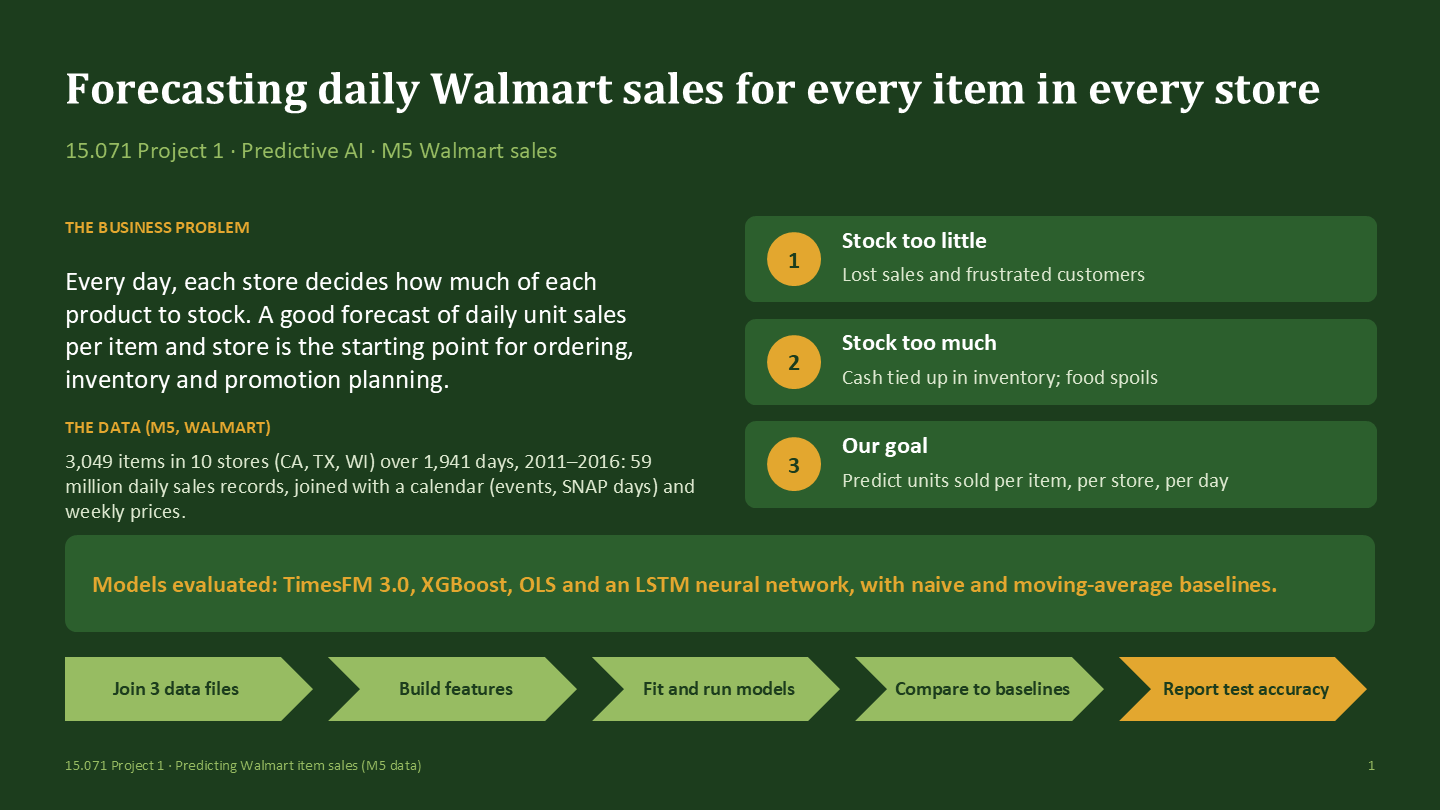
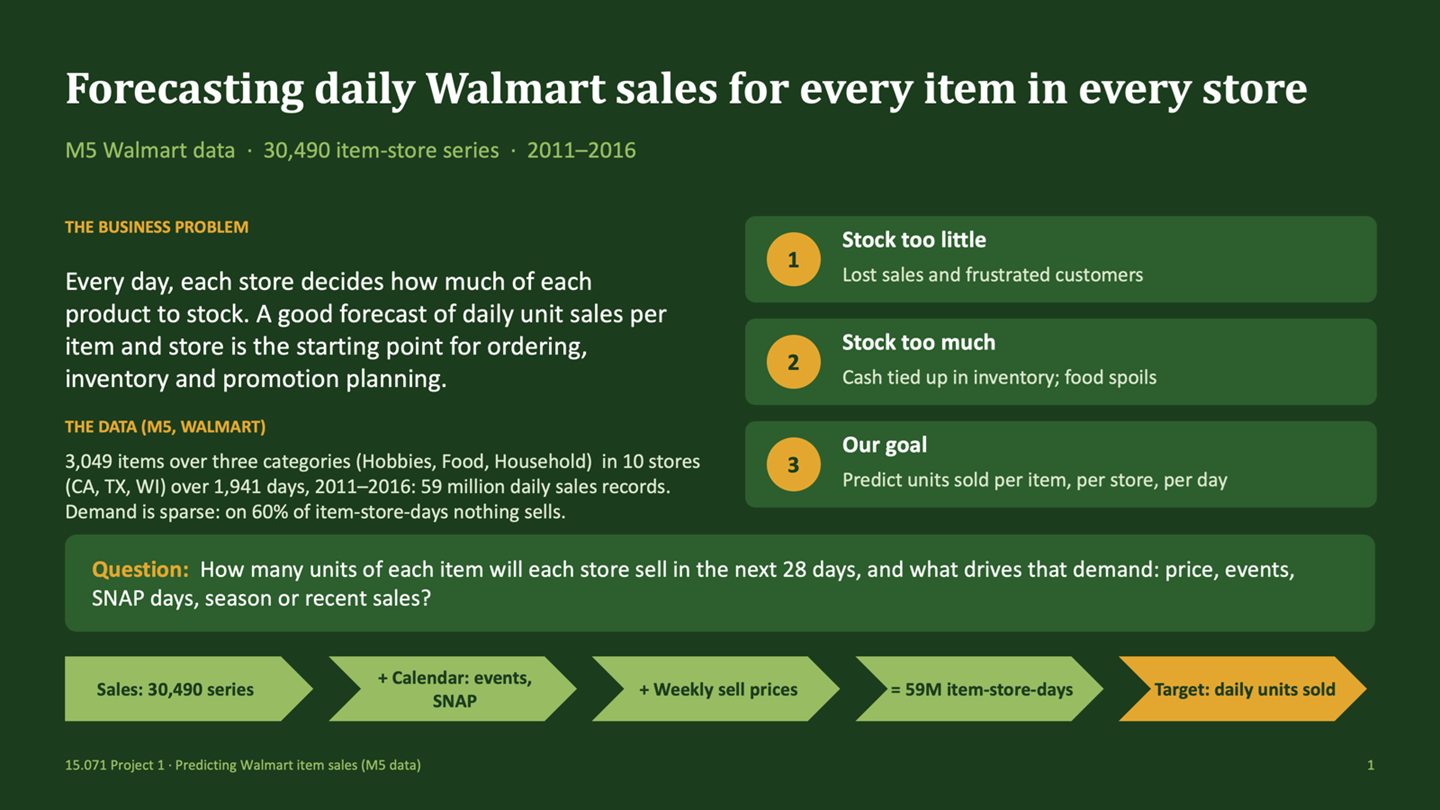
Show the cover, accuracy map and recommendation slide in the README (#5)

diff --git a/README.md b/README.md
@@ -24,6 +24,8 @@ The project evaluates **TimesFM 3.0, XGBoost, OLS, and an LSTM neural network** 
 2. **Past that, complexity buys little.** XGBoost, the LSTM, TimesFM 3.0 and V6 all reach R² 0.63 to 0.64. TimesFM 3.0 has the highest R² of the single models, while the models that learn across series are better on store and state totals (WRMSSE 0.649 for recursive boosted trees, 0.660 for the LSTM and 0.681 for XGBoost, against 0.744 for TimesFM 3.0).
 3. **How TimesFM's output is read matters more than tuning the model.** Its raw outputs under-report right-skewed sales; reading them as a calibrated mean cut the total-sales bias from −7.0% to −0.8% and WRMSSE from 0.830 to 0.744.
 
+![Scatter of item-level R² against 12-level WRMSSE: the models that learn across series score best on totals, while TimesFM 3.0 and V6 have the highest R²](docs/accuracy-map.png)
+
 ### Business impact
 
 V6 forecasts with 8.0% less error than today's 28-day rule (RMSE 2.171 against 2.36). Safety stock scales with forecast error, so for the 10 stores and roughly $45M of annual sales in the data:
@@ -43,6 +45,8 @@ Assumptions: safety stock is 1.645 × the standard deviation of each item-store'
 ### Recommendation
 
 Adopt V6 for replenishment forecasts, starting with a pilot in one store per state against matched stores that stay on the 28-day rule. Judge it on in-stock rate, inventory value and food waste, not on forecast error alone. Every 4 weeks, rerun TimesFM, refit the trees and relearn the ensemble weights, and keep TimesFM alone as the fallback, since it delivers most of the gain by itself. Collect inventory data, so that stock-outs stop looking like zero demand. Re-forecasting more often is a further lever: moving XGBoost from a 28-day to a daily schedule cut its WRMSSE by 23% (see [Next-day forecasts](#next-day-forecasts)).
+
+![Recommendation slide: why the V6 ensemble, inventory freed against today's 28-day rule, and the roll-out plan](docs/recommendation.png)
 
 ## Run locally
 
